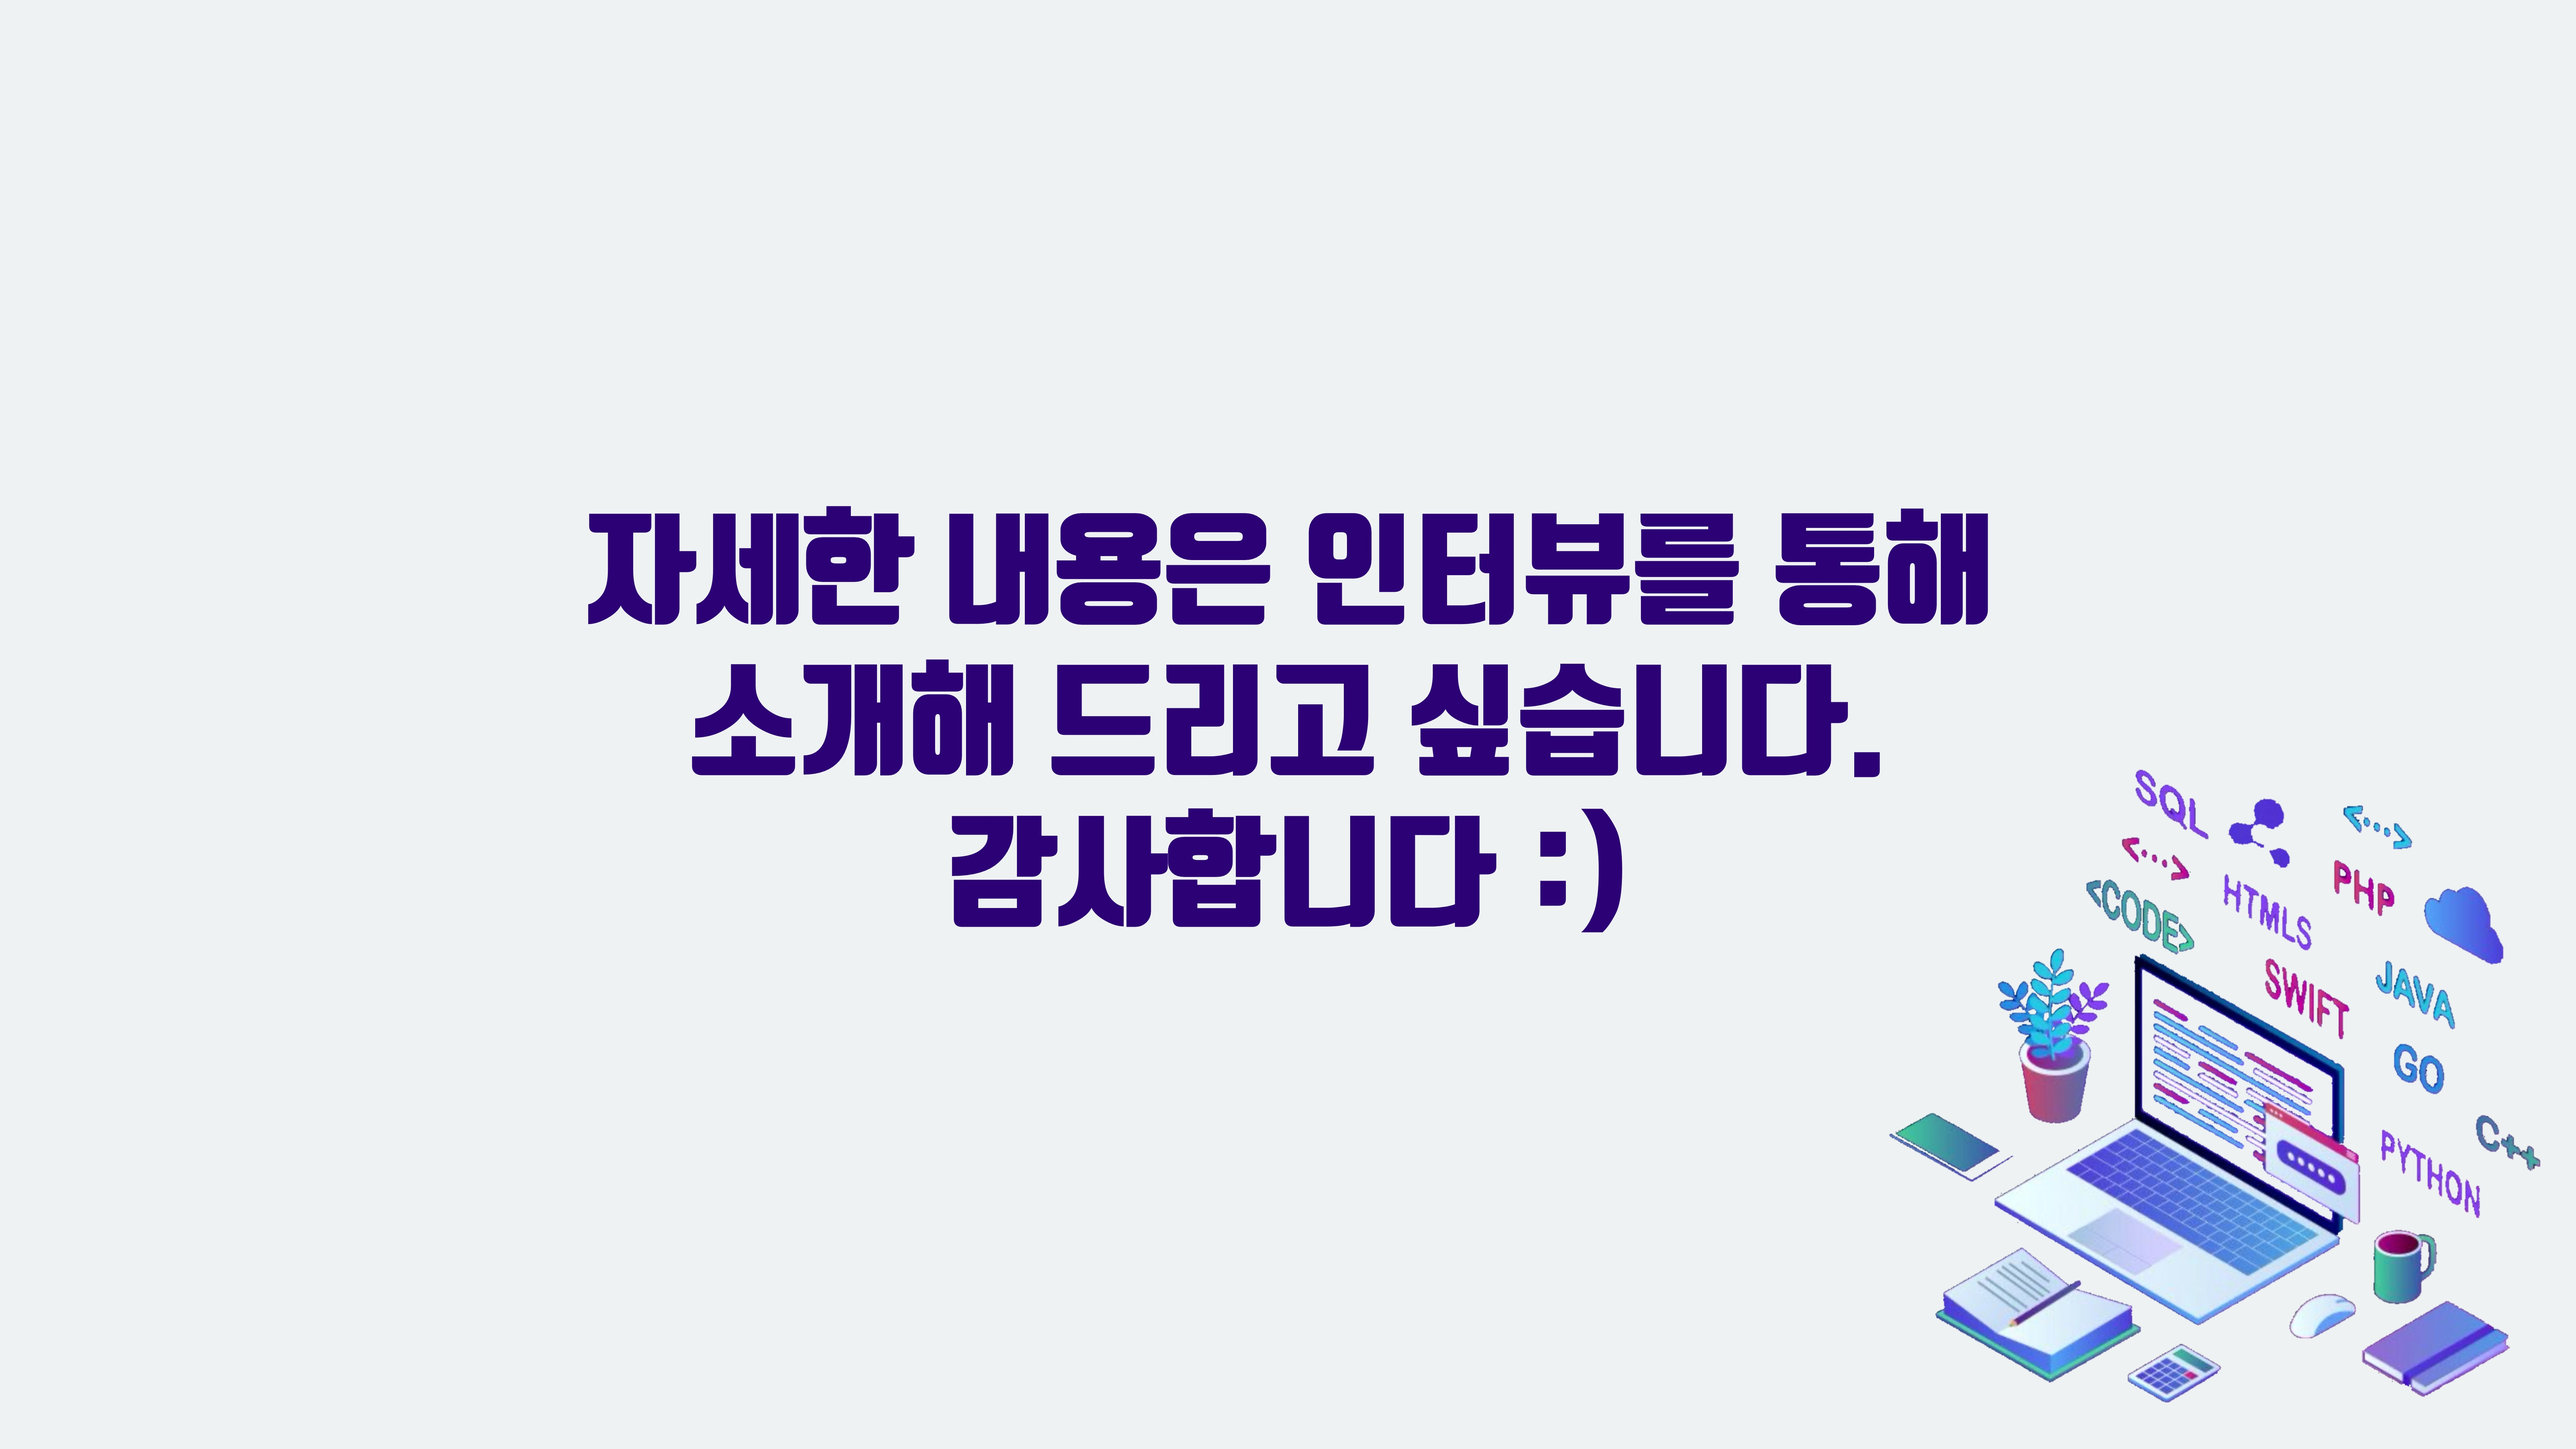
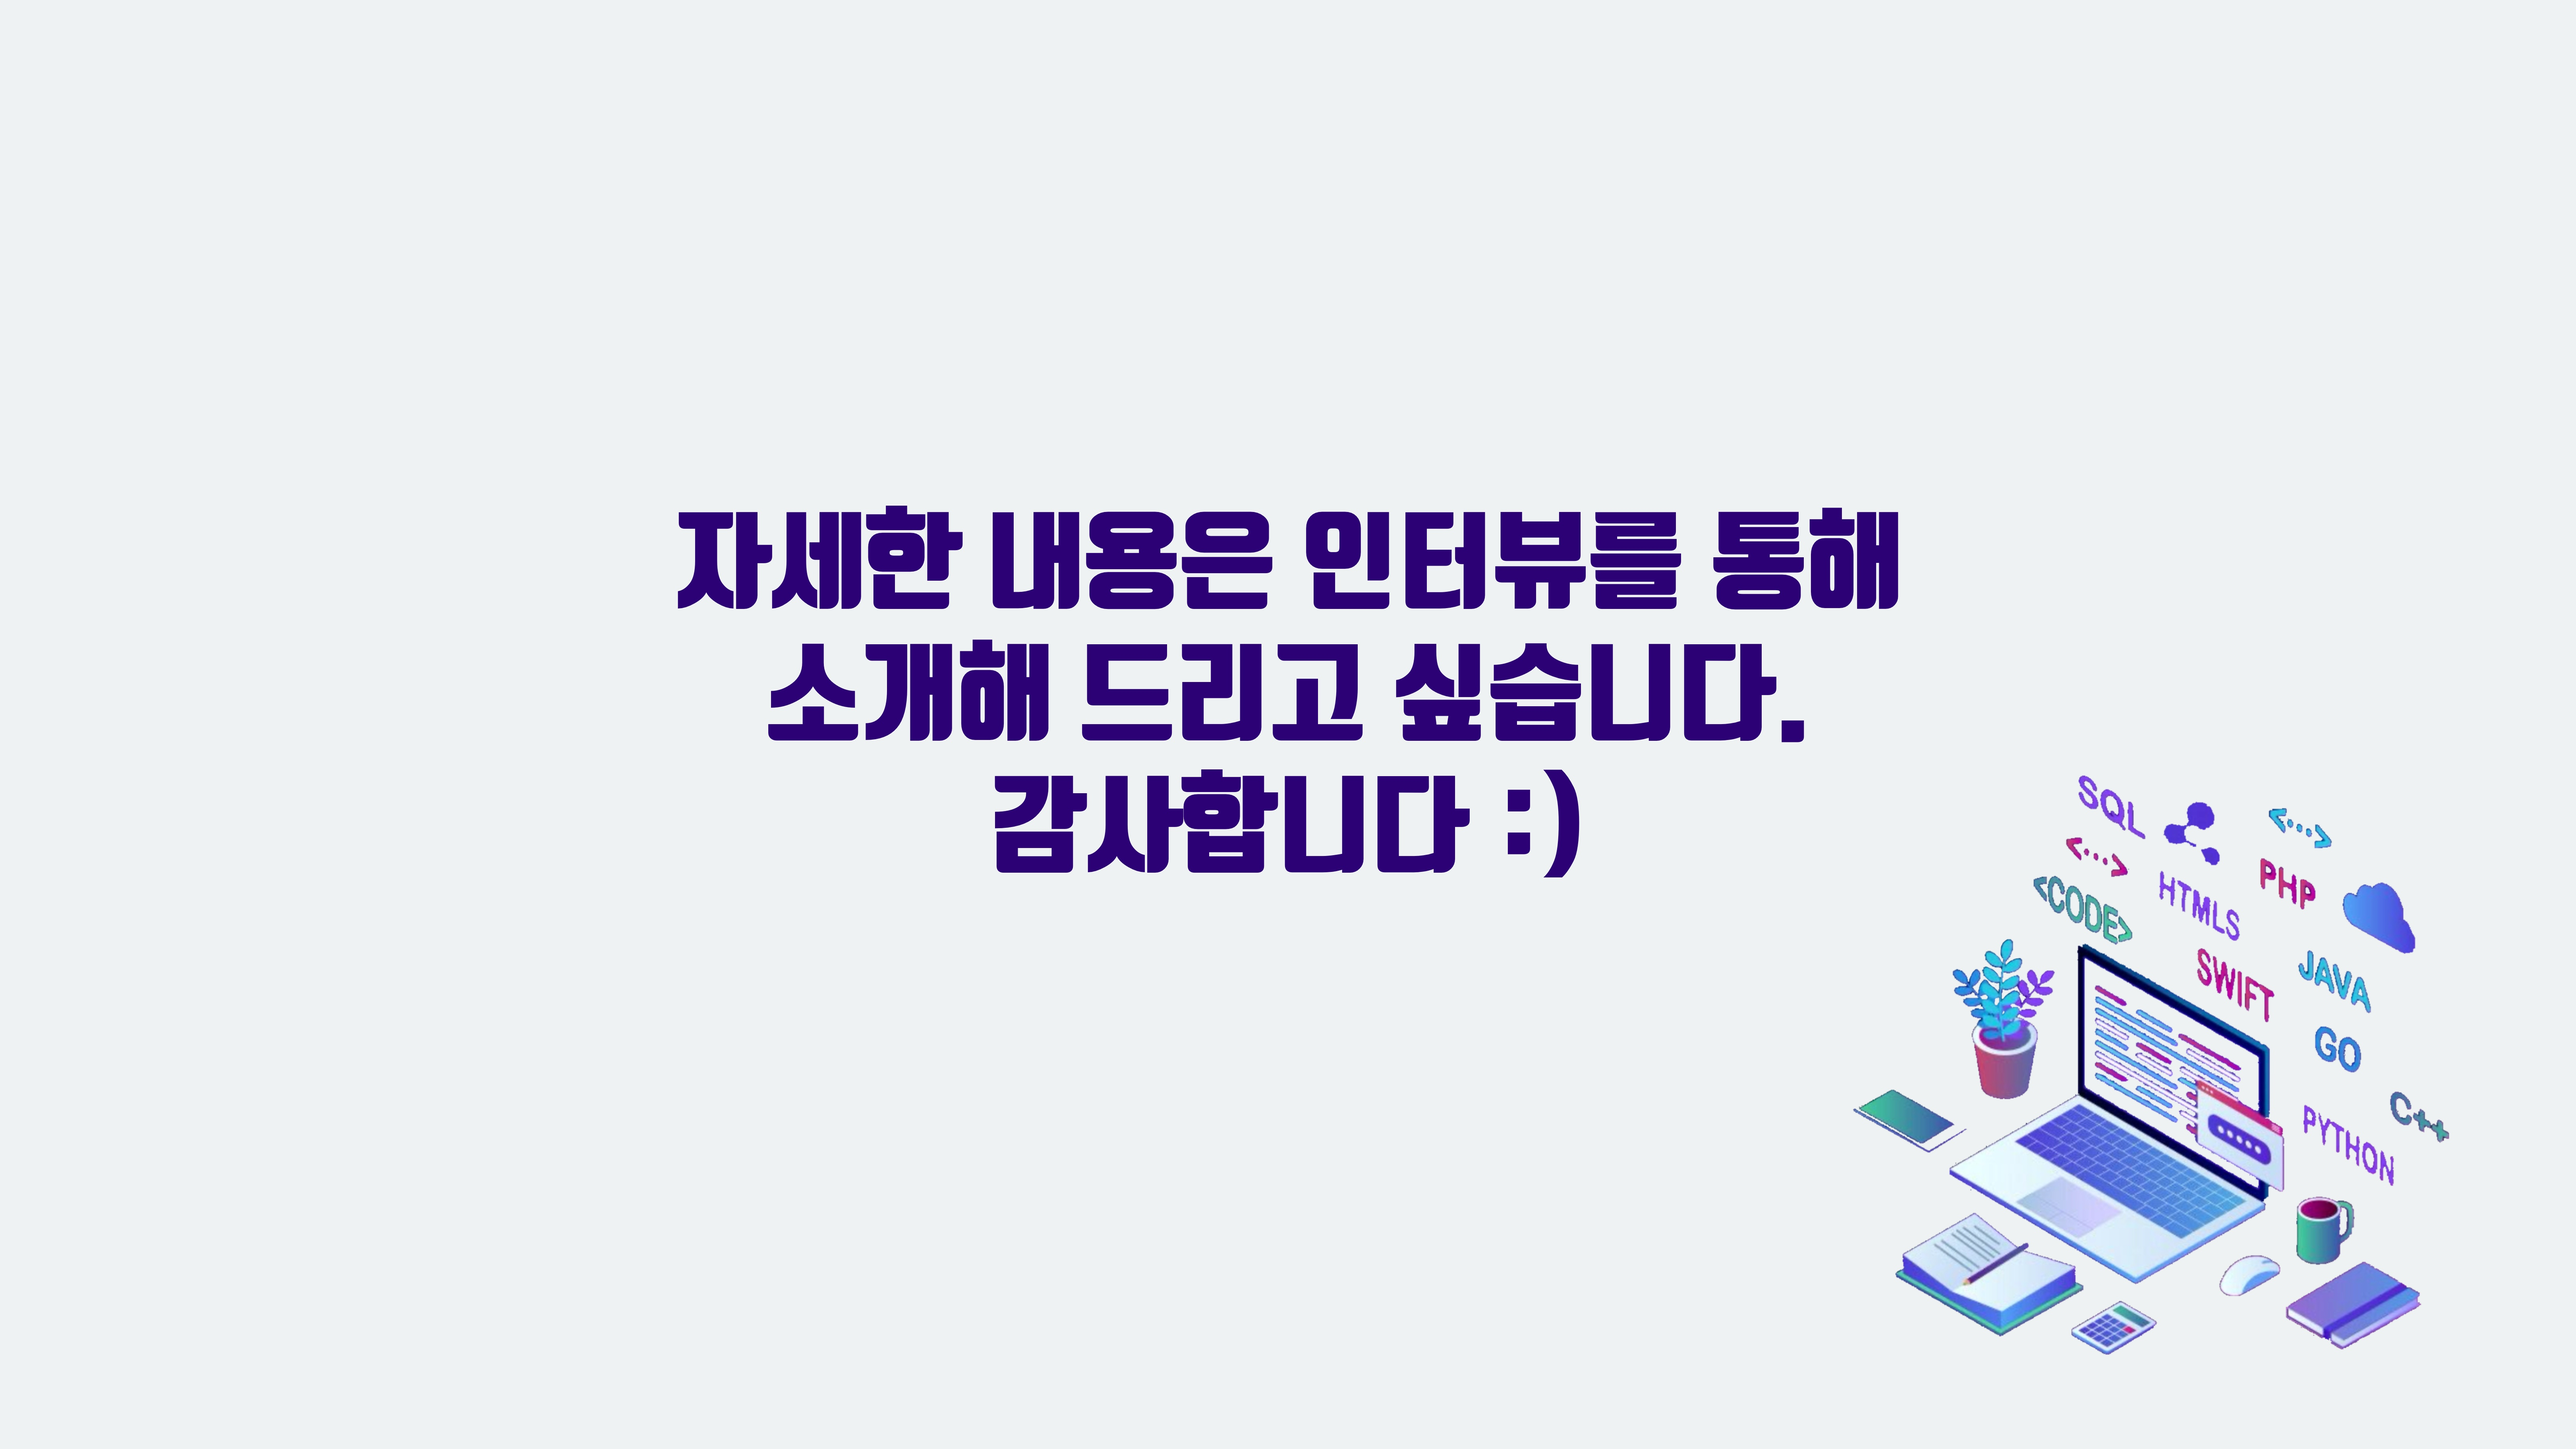
감사합니다 배경화면 변경(최종 fix)

Changed region(s): [[0.218, 0.3438, 0.7787, 0.6562], [0.7164, 0.5312, 0.9968, 0.9688]]

diff --git a/src/main/css/end.css b/src/main/css/end.css
@@ -1,12 +1,3 @@
-/* @keyframes fadeIn {
-    from {
-      opacity: 0;
-    }
-    to {
-      opacity: 1;
-    }
-  }
-   */
 .end-container {
     background: #FFFFFF;
     height: 1000px;
@@ -15,43 +6,7 @@
     background-size: cover; /* 컨테이너를 덮도록 설정 */
     background-position: center; /* 중앙에 배치 */
     background-repeat: no-repeat; /* 이미지 반복 없음 */
-}
-
-/* .end-background {
-    height: 100%;
-    width: 100%;
-    object-fit: cover;
-   
-    position: absolute;
-    top: 0;
-    left: 0;
-} */
-
-.end-main-text {
-    z-index: 1;
-    font-size: 150px;
-    color: black;
-    text-align: center;
-    position: absolute;
-    top: 50%;
-    left: 50%;
-    transform: translate(-50%, -50%);
-    margin: 0;
-    animation: fadeIn 3s ease-in-out;
-}
-
-.end-sub-text {
-    z-index: 0;
-    font-size: 150px;
-    color: rgba(0, 0, 0, 0.1);
-    text-align: center;
-    position: absolute;
-    top: 39%;
-    left: 50%;
-    transform: translate(-50%, -50%);
-    margin: 0;
-    margin-top: 2px;
-    animation: fadeIn 3s ease-in-out;
+    animation: fadeIn 5s ease-in-out;
 }
 
 @keyframes fadeIn {

diff --git a/src/main/js/end.js b/src/main/js/end.js
@@ -22,13 +22,6 @@ const End = forwardRef((props, ref) => {
         backgroundSize: zoomLevel <0.75 ? "contain" : "cover", /* 확대 수준에 따라 조정 */
         backgroundPosition: "center" /* 중앙에 배치 */
       }}>
-        {/* <p className="end-main-text" >
-          감사합니다.
-        </p>
-        <p className="end-sub-text" 
-        >
-          Thank You
-        </p> */}
       </div>
   );
 });
